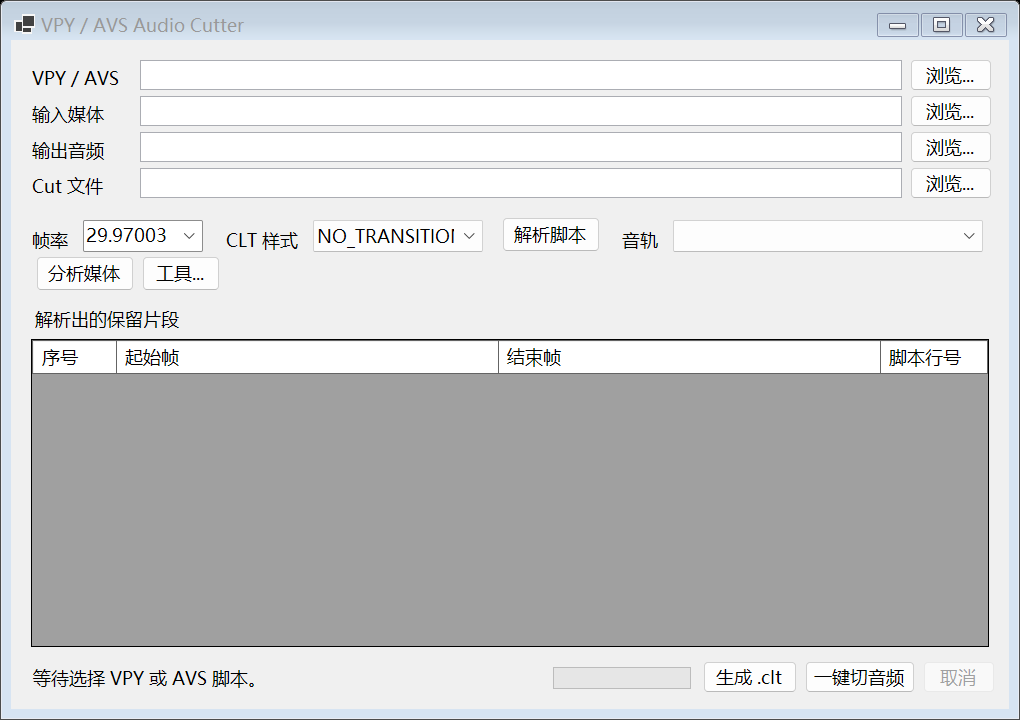
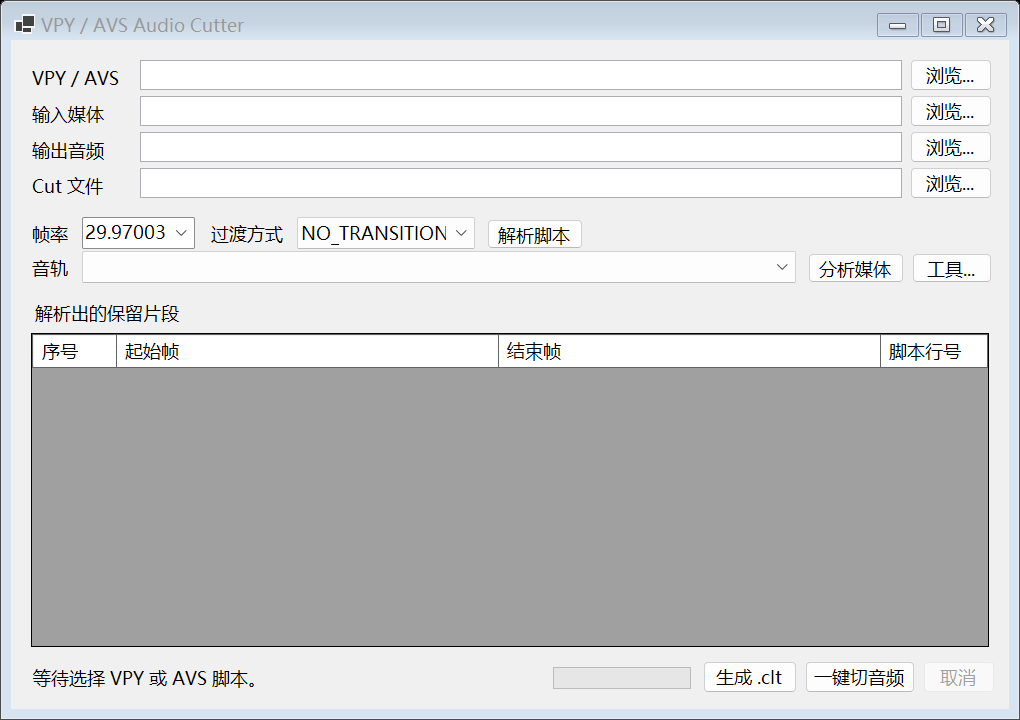
Fix options panel alignment

diff --git a/MainForm.cs b/MainForm.cs
@@ -152,15 +152,27 @@ public sealed class MainForm : Form
 
     private Control BuildOptionsPanel()
     {
-        var panel = new FlowLayoutPanel
+        var panel = new TableLayoutPanel
         {
-            Dock = DockStyle.Fill,
+            Dock = DockStyle.Top,
             AutoSize = true,
-            WrapContents = true,
+            ColumnCount = 8,
+            RowCount = 2,
+            GrowStyle = TableLayoutPanelGrowStyle.FixedSize,
             Padding = new Padding(0, 0, 0, 10)
         };
+        panel.ColumnStyles.Add(new ColumnStyle(SizeType.AutoSize));
+        panel.ColumnStyles.Add(new ColumnStyle(SizeType.Absolute, 125));
+        panel.ColumnStyles.Add(new ColumnStyle(SizeType.AutoSize));
+        panel.ColumnStyles.Add(new ColumnStyle(SizeType.Absolute, 190));
+        panel.ColumnStyles.Add(new ColumnStyle(SizeType.AutoSize));
+        panel.ColumnStyles.Add(new ColumnStyle(SizeType.Percent, 100));
+        panel.ColumnStyles.Add(new ColumnStyle(SizeType.AutoSize));
+        panel.ColumnStyles.Add(new ColumnStyle(SizeType.AutoSize));
+        panel.RowStyles.Add(new RowStyle(SizeType.Absolute, 34));
+        panel.RowStyles.Add(new RowStyle(SizeType.Absolute, 34));
 
-        panel.Controls.Add(CreateOptionLabel("帧率", 0));
+        panel.Controls.Add(CreateOptionLabel("帧率", 0), 0, 0);
 
         framerate.DropDownStyle = ComboBoxStyle.DropDown;
         framerate.Items.AddRange(
@@ -176,45 +188,49 @@ public sealed class MainForm : Form
             "60"
         ]);
         framerate.Text = settings.LastFramerate ?? string.Empty;
-        framerate.Width = 120;
-        panel.Controls.Add(framerate);
+        framerate.Anchor = AnchorStyles.Left | AnchorStyles.Right;
+        framerate.Margin = new Padding(0, 0, 12, 0);
+        panel.Controls.Add(framerate, 1, 0);
 
-        panel.Controls.Add(CreateOptionLabel("CLT 样式", 16));
+        panel.Controls.Add(CreateOptionLabel("过渡方式", 0), 2, 0);
         style.DropDownStyle = ComboBoxStyle.DropDownList;
         style.Items.AddRange(["NO_TRANSITION", "FADE", "DISSOLVE"]);
         style.SelectedIndex = 0;
-        style.Width = 170;
-        panel.Controls.Add(style);
+        style.Anchor = AnchorStyles.Left | AnchorStyles.Right;
+        style.Margin = new Padding(0, 0, 12, 0);
+        panel.Controls.Add(style, 3, 0);
 
         var parseButton = new Button
         {
             Text = "解析脚本",
-            AutoSize = true,
-            Height = 30,
-            Margin = new Padding(16, 0, 0, 0)
+            Size = new Size(96, 30),
+            Anchor = AnchorStyles.Left,
+            Margin = Padding.Empty
         };
         parseButton.Click += (_, _) => ParseVpy(showWarnings: true);
-        panel.Controls.Add(parseButton);
+        panel.Controls.Add(parseButton, 4, 0);
 
-        panel.Controls.Add(CreateOptionLabel("音轨", 18));
+        panel.Controls.Add(CreateOptionLabel("音轨", 0), 0, 1);
         audioTrack.DropDownStyle = ComboBoxStyle.DropDownList;
-        audioTrack.Width = 310;
+        audioTrack.Anchor = AnchorStyles.Left | AnchorStyles.Right;
+        audioTrack.Margin = new Padding(0, 0, 12, 0);
         audioTrack.SelectedIndexChanged += (_, _) => UpdateOutputForSelectedTrack();
-        panel.Controls.Add(audioTrack);
+        panel.Controls.Add(audioTrack, 1, 1);
+        panel.SetColumnSpan(audioTrack, 5);
 
         analyzeButton.Text = "分析媒体";
-        analyzeButton.AutoSize = true;
-        analyzeButton.Height = 30;
-        analyzeButton.Margin = new Padding(8, 0, 0, 0);
+        analyzeButton.Size = new Size(96, 30);
+        analyzeButton.Anchor = AnchorStyles.Left;
+        analyzeButton.Margin = Padding.Empty;
         analyzeButton.Click += async (_, _) => await AnalyzeMediaAsync(promptForFfmpeg: true, showErrors: true);
-        panel.Controls.Add(analyzeButton);
+        panel.Controls.Add(analyzeButton, 6, 1);
 
         toolsButton.Text = "工具...";
-        toolsButton.AutoSize = true;
-        toolsButton.Height = 30;
+        toolsButton.Size = new Size(80, 30);
+        toolsButton.Anchor = AnchorStyles.Left;
         toolsButton.Margin = new Padding(8, 0, 0, 0);
         toolsButton.Click += (_, _) => ShowToolsMenu();
-        panel.Controls.Add(toolsButton);
+        panel.Controls.Add(toolsButton, 7, 1);
 
         return panel;
     }
@@ -226,7 +242,7 @@ public sealed class MainForm : Form
             Text = text,
             AutoSize = true,
             Anchor = AnchorStyles.Left,
-            Margin = new Padding(leftMargin, 7, 6, 0)
+            Margin = new Padding(leftMargin, 0, 8, 0)
         };
     }
 

diff --git a/tests/VpyAudioCutter.UiSmoke/Program.cs b/tests/VpyAudioCutter.UiSmoke/Program.cs
@@ -29,10 +29,39 @@ internal static class Program
         if (fpsSelector is null || !fpsSelector.Items.Contains("29.97003") || fpsSelector.DropDownStyle != ComboBoxStyle.DropDown)
             throw new InvalidOperationException("The editable framerate preset list is missing.");
 
+        var transitionSelector = controls
+            .OfType<ComboBox>()
+            .Single(comboBox => comboBox.Items.Contains("NO_TRANSITION"));
+        var parseButton = controls.OfType<Button>().Single(button => button.Text == "解析脚本");
+        if (Math.Abs(GetVerticalCenter(fpsSelector) - GetVerticalCenter(transitionSelector)) > 1 ||
+            Math.Abs(GetVerticalCenter(transitionSelector) - GetVerticalCenter(parseButton)) > 1)
+        {
+            throw new InvalidOperationException("The framerate, transition, and parse controls must share one vertical center.");
+        }
+
+        if (!controls.OfType<Label>().Any(label => label.Text == "过渡方式"))
+            throw new InvalidOperationException("The CLT transition field must use an accurate label.");
+
+        var audioTrackSelector = controls
+            .OfType<ComboBox>()
+            .Single(comboBox => comboBox.DropDownStyle == ComboBoxStyle.DropDownList && comboBox.Items.Count == 0);
+        var analyzeButton = controls.OfType<Button>().Single(button => button.Text == "分析媒体");
+        var toolsButton = controls.OfType<Button>().Single(button => button.Text == "工具...");
+        if (Math.Abs(GetVerticalCenter(audioTrackSelector) - GetVerticalCenter(analyzeButton)) > 1 ||
+            Math.Abs(GetVerticalCenter(analyzeButton) - GetVerticalCenter(toolsButton)) > 1)
+        {
+            throw new InvalidOperationException("The audio track controls must stay aligned on one row.");
+        }
+
         using var bitmap = new Bitmap(form.Width, form.Height);
         form.DrawToBitmap(bitmap, new Rectangle(Point.Empty, bitmap.Size));
         bitmap.Save(Path.Combine(AppContext.BaseDirectory, "ui-smoke.png"));
         form.Close();
+    }
+
+    private static int GetVerticalCenter(Control control)
+    {
+        return control.Top + control.Height / 2;
     }
 
     private static IEnumerable<Control> EnumerateControls(Control root)

diff --git a/RELEASE_NOTES.md b/RELEASE_NOTES.md
@@ -1,16 +1,14 @@
-# VpyAudioCutter 1.0.0
+# VpyAudioCutter 1.0.1
 
-首次公开发布。
+修复选项区在高 DPI 或窗口宽度不足时自动换行造成的错位。
 
-## 功能
+## 修复
 
-- 静态读取 VPY / AVS 中的 Trim 区间，不执行脚本。
-- 生成 MeGUI 兼容的 CLT 文件。
-- 支持直接音频和 TS、M2TS、MKV、MP4 等媒体容器。
-- 支持多音轨选择。
-- 优先使用 eac3to 抽取容器音轨，失败时回退到 ffmpeg。
-- BeSplit 支持的格式复刻 MeGUI Audio Cutter 流程。
-- 其他格式自动检查压缩音频包边界：可安全直通时不重新编码，否则在 PCM 域精确切割后编码回原格式。
+- 第一行固定显示帧率、过渡方式和“解析脚本”。
+- 第二行完整显示音轨下拉框、“分析媒体”和“工具...”。
+- 音轨下拉框会随窗口宽度伸缩，不再把对应按钮单独挤到下一行。
+- 帧率、过渡方式和“解析脚本”按垂直中心严格对齐。
+- 将不准确的“CLT 样式”改为“过渡方式”；CLT 内部仍按兼容格式写入 `<Style>`。
 
 ## 下载
 

diff --git a/CHANGELOG.md b/CHANGELOG.md
@@ -1,5 +1,12 @@
 # Changelog
 
+## 1.0.1 - 2026-07-12
+
+- Keep the audio track selector, Analyze Media button, and Tools button aligned on one responsive row.
+- Replace the wrapping options flow with a stable two-row table layout.
+- Vertically center the framerate, transition selector, and Parse Script button.
+- Rename the UI label from "CLT style" to the more accurate "Transition".
+
 ## 1.0.0 - 2026-07-12
 
 - Parse VapourSynth and AviSynth Trim ranges without executing scripts.